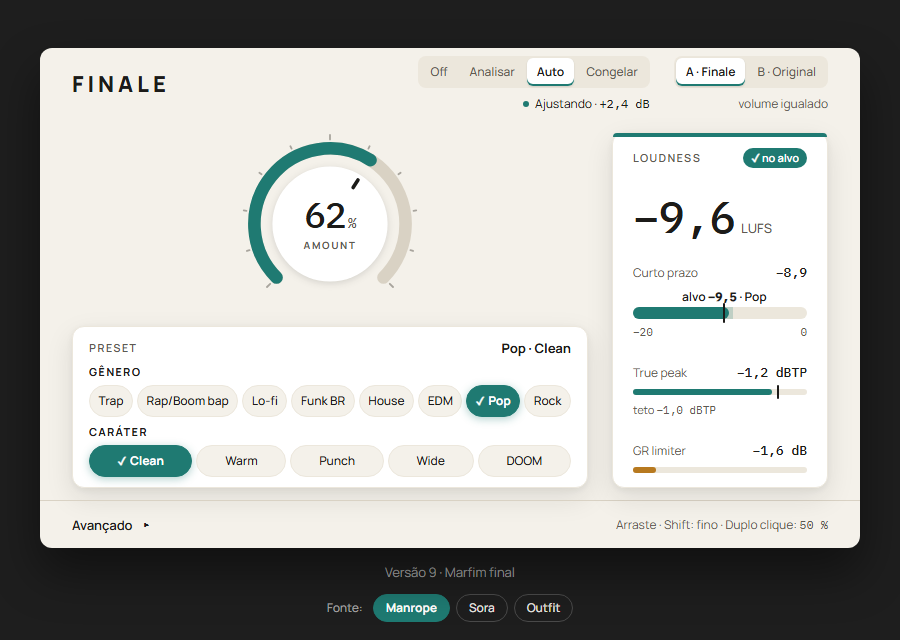
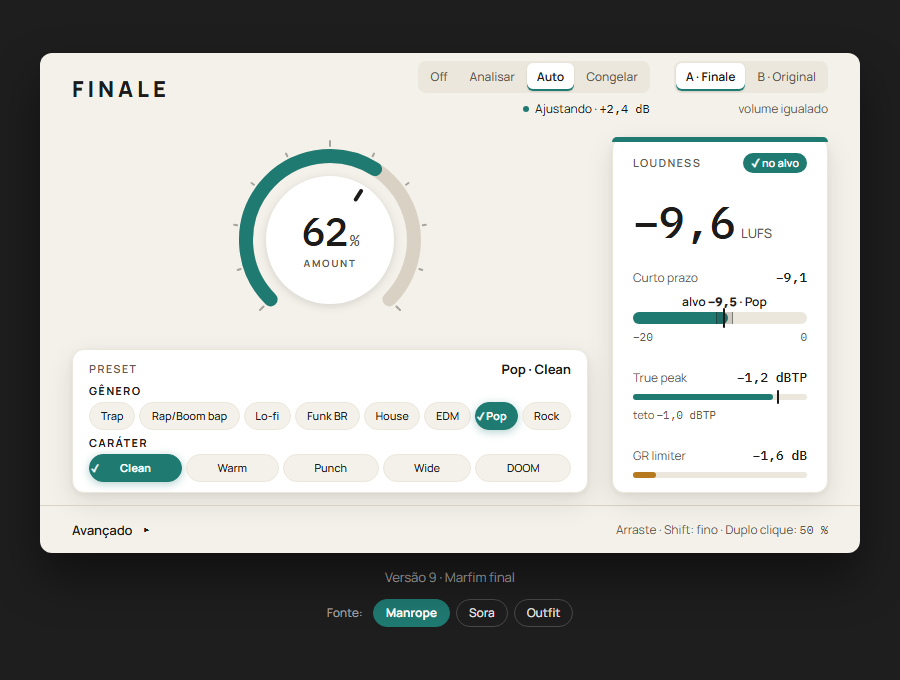
UI: Marfim final — knob de volta ao tamanho, chips centralizados, pílula com histerese

diff --git a/docs/ui/prototipos/v9-marfim-final.html b/docs/ui/prototipos/v9-marfim-final.html
@@ -72,7 +72,7 @@
 
   /* Janela do plugin: 820 x 500. A altura do knob é calculada para caber a coluna esquerda (ver README no relatório). */
   .win {
-    --knob: 180px;
+    --knob: 200px;
     position: relative;
     width: 820px;
     height: 500px;
@@ -83,7 +83,7 @@
     border-radius: 12px;
     box-shadow: 0 24px 48px rgba(0, 0, 0, 0.45);
   }
-  .win.adv-open { --knob: 116px; }
+  .win.adv-open { --knob: 142px; }
 
   .kicker {
     font: 600 11px/16px var(--font-ui);
@@ -166,7 +166,7 @@
     min-height: 0;
     display: flex;
     flex-direction: column;
-    gap: 10px;
+    gap: 6px;
   }
   .knob-area { flex: 1 1 auto; min-height: 0; display: flex; align-items: center; justify-content: center; }
 
@@ -213,14 +213,13 @@
   .cap { margin-top: 6px; font: 700 10px/12px var(--font-ui); letter-spacing: 0.16em; color: var(--text-dim); }
 
   /* Box de preset: mesmo raio, borda e sombra do box de loudness.
-     Altura fixa: 24 (padding) + 18 (cabeçalho) + 8 + 52 (gênero) + 8 + 52 (caráter) = 162 px */
+     Altura automática, 142 px: 20 (padding) + 18 (cabeçalho) + 6 + 46 (gênero) + 6 + 46 (caráter) */
   .preset {
     flex: none;
-    height: 162px;
     display: flex;
     flex-direction: column;
-    gap: 8px;
-    padding: 12px 16px;
+    gap: 6px;
+    padding: 10px 16px;
     background: var(--surface);
     border: 1px solid var(--surface-2);
     border-radius: 12px;
@@ -228,26 +227,33 @@
   }
   .preset-h { height: 18px; display: flex; align-items: center; justify-content: space-between; }
   .preset-sum { font: 700 13px/18px var(--font-ui); color: var(--text); white-space: nowrap; }
-  .group { display: flex; flex-direction: column; gap: 6px; }
+  .group { display: flex; flex-direction: column; gap: 4px; }
   .grp-lbl { font: 700 11px/14px var(--font-ui); letter-spacing: 0.12em; text-transform: uppercase; color: var(--text); }
-  .chips { display: flex; flex-wrap: wrap; gap: 4px; }
+  .chips { display: flex; flex-wrap: nowrap; gap: 4px; }
   .chip {
     flex: 1 1 auto;
-    height: 32px;
-    padding: 0 6px;
-    display: inline-flex;
+    min-width: 0;
+    height: 28px;
+    padding: 0;
+    display: inline-grid;
+    grid-template-columns: 10px 1fr 10px;
+    column-gap: 0;
     align-items: center;
-    justify-content: center;
-    gap: 4px;
     border: 1px solid var(--surface-2);
-    border-radius: 16px;
+    border-radius: 14px;
     background: var(--bg);
     color: var(--text);
-    font: 500 12px/16px var(--font-ui);
+    font: 500 11px/16px var(--font-ui);
     white-space: nowrap;
     cursor: pointer;
     transition: background-color 0.15s ease, color 0.15s ease, border-color 0.15s ease, box-shadow 0.15s ease;
   }
+  /* Coluna 1 é o slot do ✓ (sempre reservado; invisível sem seleção). Coluna 3 é o espelho vazio,
+     para o rótulo (coluna 2, 1fr) ficar centralizado opticamente em todos os chips.
+     O rótulo em negrito (::after, invisível) reserva a largura para a seleção não mudar o chip. */
+  .chip > span { grid-column: 2; grid-row: 1; justify-self: center; }
+  .chip::before { content: "✓"; grid-column: 1; grid-row: 1; justify-self: center; font-size: 10px; font-weight: 700; visibility: hidden; }
+  .chip::after { content: attr(data-label); grid-column: 2; grid-row: 1; justify-self: center; font-weight: 700; visibility: hidden; height: 0; overflow: hidden; }
   .chip:hover { border-color: var(--line); }
   .chip[aria-pressed="true"] {
     background: var(--accent);
@@ -256,7 +262,7 @@
     font-weight: 700;
     box-shadow: 0 2px 8px rgba(31, 122, 114, 0.35);
   }
-  .chip[aria-pressed="true"]::before { content: "✓"; font-size: 11px; font-weight: 700; }
+  .chip[aria-pressed="true"]::before { visibility: visible; }
 
   /* Medidores (cartão branco com faixa de acento no topo) */
   .meter {
@@ -273,11 +279,12 @@
     border-radius: 12px;
     box-shadow: 0 10px 28px rgba(28, 27, 25, 0.10), 0 2px 6px rgba(28, 27, 25, 0.06);
   }
+  /* Faixa de acento: cobre a borda de 1 px e segue o raio externo (12 px), sem fio aparecendo acima */
   .meter::before {
     content: "";
     position: absolute;
-    left: 0; right: 0; top: 0;
-    height: 4px;
+    left: -1px; right: -1px; top: -1px;
+    height: 5px;
     background: var(--accent);
     border-radius: 12px 12px 0 0;
   }
@@ -316,7 +323,15 @@
   .bar.thin { height: 6px; border-radius: 3px; }
   .fill { position: absolute; left: 0; top: 0; bottom: 0; width: 0; border-radius: inherit; background: var(--accent); }
   .fill.gr { background: var(--warn); }
-  .band { position: absolute; top: 0; bottom: 0; width: 10%; background: rgba(31, 122, 114, 0.22); }
+  /* Faixa de ±1 LU: desenhada por cima do preenchimento (vem depois do fill no DOM) */
+  .band {
+    position: absolute;
+    top: 0; bottom: 0;
+    width: 10%;
+    background: rgba(28, 27, 25, 0.14);
+    border-left: 1px solid rgba(28, 27, 25, 0.45);
+    border-right: 1px solid rgba(28, 27, 25, 0.45);
+  }
   .tline { position: absolute; top: -4px; bottom: -4px; width: 2px; margin-left: -1px; border-radius: 1px; background: var(--text); }
   .ceil { position: absolute; top: -4px; bottom: -4px; left: 83.33%; width: 2px; margin-left: -1px; border-radius: 1px; background: var(--text); }
   .scale {
@@ -447,24 +462,24 @@
         <div class="group">
           <span class="grp-lbl">Gênero</span>
           <div class="chips" role="group" aria-label="Gênero">
-            <button type="button" class="chip" aria-pressed="false">Trap</button>
-            <button type="button" class="chip" aria-pressed="false">Rap/Boom bap</button>
-            <button type="button" class="chip" aria-pressed="false">Lo-fi</button>
-            <button type="button" class="chip" aria-pressed="false">Funk BR</button>
-            <button type="button" class="chip" aria-pressed="false">House</button>
-            <button type="button" class="chip" aria-pressed="false">EDM</button>
-            <button type="button" class="chip" aria-pressed="true">Pop</button>
-            <button type="button" class="chip" aria-pressed="false">Rock</button>
+            <button type="button" class="chip" data-label="Trap" aria-pressed="false"><span>Trap</span></button>
+            <button type="button" class="chip" data-label="Rap/Boom bap" aria-pressed="false"><span>Rap/Boom bap</span></button>
+            <button type="button" class="chip" data-label="Lo-fi" aria-pressed="false"><span>Lo-fi</span></button>
+            <button type="button" class="chip" data-label="Funk BR" aria-pressed="false"><span>Funk BR</span></button>
+            <button type="button" class="chip" data-label="House" aria-pressed="false"><span>House</span></button>
+            <button type="button" class="chip" data-label="EDM" aria-pressed="false"><span>EDM</span></button>
+            <button type="button" class="chip" data-label="Pop" aria-pressed="true"><span>Pop</span></button>
+            <button type="button" class="chip" data-label="Rock" aria-pressed="false"><span>Rock</span></button>
           </div>
         </div>
         <div class="group">
           <span class="grp-lbl">Caráter</span>
           <div class="chips" role="group" aria-label="Caráter">
-            <button type="button" class="chip" aria-pressed="true">Clean</button>
-            <button type="button" class="chip" aria-pressed="false">Warm</button>
-            <button type="button" class="chip" aria-pressed="false">Punch</button>
-            <button type="button" class="chip" aria-pressed="false">Wide</button>
-            <button type="button" class="chip" aria-pressed="false">DOOM</button>
+            <button type="button" class="chip" data-label="Clean" aria-pressed="true"><span>Clean</span></button>
+            <button type="button" class="chip" data-label="Warm" aria-pressed="false"><span>Warm</span></button>
+            <button type="button" class="chip" data-label="Punch" aria-pressed="false"><span>Punch</span></button>
+            <button type="button" class="chip" data-label="Wide" aria-pressed="false"><span>Wide</span></button>
+            <button type="button" class="chip" data-label="DOOM" aria-pressed="false"><span>DOOM</span></button>
           </div>
         </div>
       </div>
@@ -483,8 +498,8 @@
         <div class="st">
           <span class="tlabel" id="tlabel">alvo <span class="n">−9,5</span> · Pop</span>
           <div class="bar">
-            <div class="band" id="tband"></div>
             <div class="fill" id="shortFill" style="width:55%"></div>
+            <div class="band" id="tband"></div>
             <div class="tline" id="tline"></div>
           </div>
           <div class="scale"><span>−20</span><span>0</span></div>
@@ -624,8 +639,12 @@
     const [name, t] = GENRES[i];
     target = t;
     tlabel.innerHTML = `alvo <span class="n">${fmt(t)}</span> · ${name}`;
-    tlabel.style.left = tline.style.left = xOf(t).toFixed(2) + '%';
+    tline.style.left = xOf(t).toFixed(2) + '%';
     tband.style.left = xOf(t - 1).toFixed(2) + '%'; // faixa de ±1 LU
+    // Rótulo centralizado no alvo, mas preso às bordas do box: nunca passa da caixa do medidor
+    const W = tlabel.parentElement.clientWidth, w = tlabel.offsetWidth;
+    const cx = xOf(t) / 100 * W;
+    tlabel.style.left = Math.min(W - w / 2, Math.max(w / 2, cx)).toFixed(1) + 'px';
   };
   renderGenre(Math.max(0, $$('.chips[aria-label="Gênero"] .chip').findIndex((c) => c.getAttribute('aria-pressed') === 'true')));
 
@@ -633,7 +652,7 @@
   const presetSum = $('#presetSum');
   const pick = (label) => {
     const b = $(`.chips[aria-label="${label}"] .chip[aria-pressed="true"]`);
-    return b ? b.textContent.trim() : '';
+    return b ? b.dataset.label : '';
   };
   const updatePreset = () => { presetSum.textContent = `${pick('Gênero')} · ${pick('Caráter')}`; };
   updatePreset();
@@ -692,7 +711,10 @@
   let pillS = '';
   const renderPill = () => {
     const d = Math.round((M.int.v - target) * 10) / 10;
-    const s = Math.abs(d) <= 1 ? 'ok' : d < 0 ? 'low' : 'high';
+    const a = Math.abs(d);
+    // Histerese: entra em "no alvo" dentro de ±0,8 LU e só sai além de ±1,2 LU (sem piscar na borda)
+    const inside = pillS === 'ok' ? a <= 1.2 : a <= 0.8;
+    const s = inside ? 'ok' : d < 0 ? 'low' : 'high';
     if (s === pillS) return;
     pillS = s;
     pill.dataset.s = s;

diff --git a/docs/ui/prototipos/index.html b/docs/ui/prototipos/index.html
@@ -51,11 +51,11 @@
   .idea { color: var(--muted); margin: 0; font-size: 14px; }
   .round { max-width: 1240px; margin: 0 auto 48px; }
   .round-title { font-size: 18px; font-weight: 600; color: var(--muted); margin: 0 0 16px; }
-  /* Contêiner no tamanho escalado (900x600 * 0.6 = 540x360). */
+  /* Contêiner no tamanho escalado: 900 x --h (data-h, 600 por padrão) * --s (0,6 em 540 px). */
   .frame {
     width: 540px;
     max-width: 100%;
-    height: 360px;
+    height: calc(var(--h, 600) * var(--s, 0.6) * 1px);
     overflow: hidden;
     position: relative;
     border-radius: 6px;
@@ -66,7 +66,7 @@
     top: 0;
     left: 0;
     width: 900px;
-    height: 600px;
+    height: calc(var(--h, 600) * 1px);
     border: 0;
     transform: scale(var(--s, 0.6)); /* definido por script abaixo, de acordo com a largura do quadro */
     transform-origin: 0 0;
@@ -85,7 +85,7 @@
   @media (max-width: 600px) {
     body { padding: 24px 16px 40px; }
     .card { padding: 14px; }
-    .frame { width: 100%; height: auto; aspect-ratio: 900 / 600; }
+    .frame { width: 100%; height: auto; aspect-ratio: 900 / var(--h, 600); }
   }
 </style>
 </head>
@@ -102,7 +102,7 @@
     <article class="card">
       <div class="head"><span class="num">09</span><h2 class="name">Marfim final</h2></div>
       <p class="idea">A v6 Marfim refinada: fonte nova, preset e loudness em destaque.</p>
-      <div class="frame"><iframe src="v9-marfim-final.html" title="Marfim final" loading="lazy"></iframe></div>
+      <div class="frame" data-h="680"><iframe src="v9-marfim-final.html" title="Marfim final" loading="lazy"></iframe></div>
       <a class="link" href="v9-marfim-final.html">abrir em tamanho real ↗</a>
     </article>
     </div>
@@ -176,7 +176,11 @@
   </main>
 <script>
   // Escala cada prévia (iframe de 900 px) para caber na largura do quadro
-  const fitFrames = () => document.querySelectorAll('.frame').forEach((f) => f.style.setProperty('--s', (f.clientWidth / 900).toFixed(4)));
+  // data-h: altura real da página em px (600 por padrão); a prévia usa 900 x data-h
+  const fitFrames = () => document.querySelectorAll('.frame').forEach((f) => {
+    f.style.setProperty('--s', (f.clientWidth / 900).toFixed(4));
+    f.style.setProperty('--h', f.dataset.h || 600);
+  });
   window.addEventListener('resize', fitFrames);
   fitFrames();
 </script>
